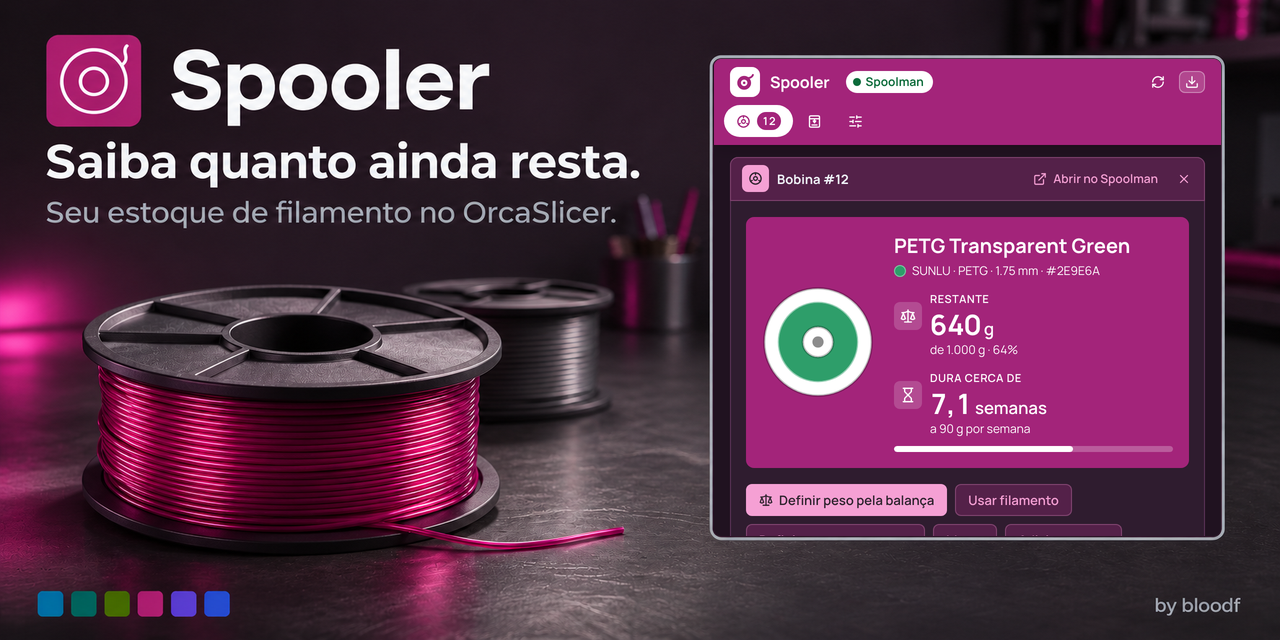
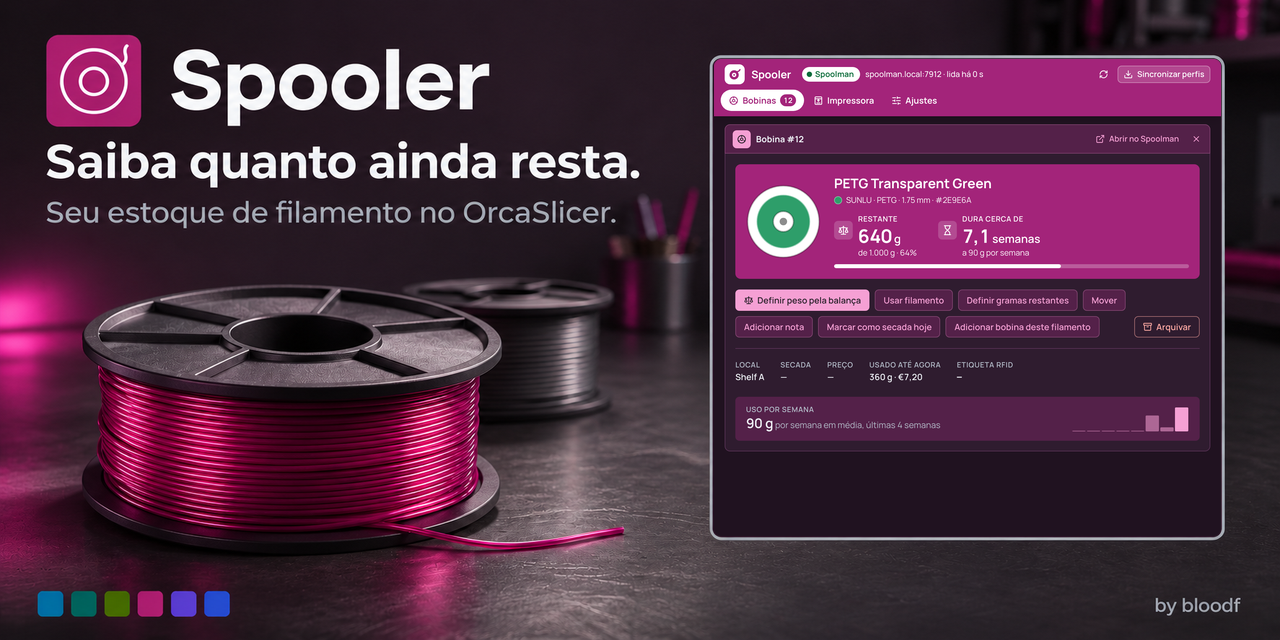
docs: apply brand review fixes to README, listing text and artwork
Canonical headings, tables, alt text and anchors in both READMEs; credits and independence note moved out of Contributing into NOTICE.md and a note under Install; listing description restructured. Social preview, main, square and hero images re-exported so the screenshot ends at a clean edge; unused spooler-store art removed.

Changed region(s): [[0.5312, 0.0938, 0.9688, 0.8438]]

diff --git a/scripts/store_images/render.py b/scripts/store_images/render.py
@@ -56,6 +56,10 @@ SCENES = {
     "left": {"view": "spools", "script": f"""
         document.querySelector('tr[data-spool="{SHOWN}"]').click();
         await until(function () {{ return document.querySelector('[data-detail="{SHOWN}"] .sd-history'); }});
+        // End the panel at the usage chart: the print history below it would be cut by the square's edge.
+        var heading = document.querySelector('[data-detail="{SHOWN}"] .sd-h');
+        if (heading) {{ heading.nextElementSibling.remove(); heading.remove(); }}
+        document.body.style.paddingBottom = '800px';   // room to scroll the panel to the top, so no list row shows above it
         top(document.querySelector('[data-detail="{SHOWN}"]'));
         document.activeElement.blur();"""},
     # README screenshots: the list with a spool's detail beside it, and the setup guide asking for the address
@@ -72,7 +76,14 @@ SCENES = {
     # "Turn stock into filament presets": the setup guide's step about the presets
     "presets": {"view": "settings", "wizard_step": 3, "script": ""},
     # "See what each slot holds": the printers and their toolheads
-    "slots": {"view": "printer", "display": {"head_rfid": False}, "script": ""},
+    "slots": {"view": "printer", "display": {"head_rfid": False}, "script": """
+        // Show the first printer's toolheads only: its note and the next printer would be cut by the square's edge.
+        var note = document.querySelector('.pp-note');
+        if (note) {
+          var panel = note.closest('.oui-panel');
+          while (panel.nextElementSibling) panel.nextElementSibling.remove();
+          note.remove();
+        }"""},
     # "Check filament before a print": the last slice's check
     "check": {"view": "printer", "plate": True, "script": """
         await until(function () { return document.querySelector('[data-test="plate"]'); });
@@ -98,14 +109,15 @@ def exports() -> list[dict]:
         rows.append({"source": f"spooler-workshop-{main}.png", "file": f"assets/orca-cloud/spooler-main-{lang}.png",
                      "size": (1600, 900), "scene": "left", "theme": "dark", "lang": lang, "use": "Orca Cloud main image"})
         rows.append({"source": f"spooler-workshop-main-square-{lang}.png", "file": f"assets/orca-cloud/spooler-main-square-{lang}.png",
-                     "size": (900, 900), "scene": "left", "theme": "dark", "lang": lang, "page_scale": 1.35,
+                     "size": (900, 900), "scene": "left", "theme": "dark", "lang": lang, "page_scale": 1.8,
                      "use": "Orca Cloud square image"})
         for name, scene in (("01-stock", "stock"), ("02-presets", "presets"), ("03-slots", "slots"), ("04-check", "check")):
             rows.append({"source": f"spooler-workshop-feature-{name}-{lang}.png",
                          "file": f"assets/orca-cloud/spooler-feature-{name}-{lang}.png",
                          "size": (1600, 900), "scene": scene, "theme": "dark", "lang": lang, "use": "Orca Cloud gallery image"})
         rows.append({"source": f"spooler-workshop-social-preview-{lang}.png", "file": f"assets/social/spooler-social-preview-{lang}.png",
-                     "size": (1280, 640), "scene": "left", "theme": "dark", "lang": lang, "use": "GitHub social preview"})
+                     "size": (1280, 640), "scene": "left", "theme": "dark", "lang": lang, "page_scale": 1.5,
+                     "use": "GitHub social preview"})
         for theme in ("dark", "light"):
             rows.append({"source": f"spooler-workshop-hero-{theme}-{lang}.png", "file": f"assets/readme/spooler-hero-{theme}-{lang}.png",
                          "size": (1600, 900), "scene": "left", "theme": theme, "lang": lang, "use": "README hero"})

diff --git a/README.pt-BR.md b/README.pt-BR.md
@@ -19,11 +19,9 @@
   <a href="#-instalação">Instalação</a> · <a href="#-recursos">Recursos</a> · <a href="#-como-usar">Como usar</a> · <a href="#-perguntas-frequentes">Perguntas</a> · <a href="README.md">English</a>
 </p>
 
-## ✨ O que ele faz
+## ✨ O que faz
 
 O Spooler lê suas bobinas do [Spoolman](https://github.com/Donkie/Spoolman) e as lista em uma aba dentro do OrcaSlicer, cada uma com material, cor, local e gramas restantes. Todo filamento com bobina em estoque vira um perfil de filamento do OrcaSlicer para cada uma das suas impressoras, já na cor certa. A aba Impressora mostra qual bobina está em cada cabeça, trilha ou slot do AMS, e depois de fatiar o Spooler compara o que a mesa precisa com o que resta.
-
-É um fork do [Spoolio](https://github.com/danm1989/spoolio-orcaslicer), de Dan J Moore, que faz a configuração por você: informe o endereço do Spoolman uma vez.
 
 <p align="center">
   <picture>
@@ -42,7 +40,7 @@ Por arquivo:
 2. Coloque-o em uma pasta própria chamada `spooler` dentro do diretório de plugins do OrcaSlicer, um arquivo do Spooler por pasta: `%APPDATA%\OrcaSlicer\orca_plugins\` no Windows, `~/Library/Application Support/OrcaSlicer/orca_plugins/` no macOS, `~/.config/OrcaSlicer/orca_plugins/` no Linux.
 3. Reinicie o OrcaSlicer e marque **Activate** no Spooler. Uma aba **Spooler** aparece na barra superior.
 
-| Você precisa de | Detalhes |
+| Requisito | Detalhe |
 |---|---|
 | OrcaSlicer | 2.5.0 ou mais novo, pelas APIs de perfis para plugins |
 | Uma origem de bobinas | Um servidor [Spoolman](https://github.com/Donkie/Spoolman) acessível, ou uma conta Bambu Cloud (só leitura, experimental) |
@@ -51,26 +49,28 @@ Por arquivo:
 
 [docs/install.md](docs/install.md) mostra cada passo com uma figura (em inglês).
 
+O Spooler é um fork do [Spoolio](https://github.com/danm1989/spoolio-orcaslicer), de Dan J Moore, que acrescenta um guia de configuração. É um projeto independente, sem vínculo com Spoolman, OrcaSlicer, Snapmaker, Sovol, Anycubic ou Bambu Lab e sem o endosso deles.
+
 ## 🧰 Recursos
 
 <table>
   <tr>
     <td width="50%" valign="top">
-      <img src="assets/orca-cloud/spooler-feature-01-stock-pt-BR.png" alt="Arte do Spooler com a lista de bobinas: material, selos de estado e gramas restantes de cada bobina" width="100%">
+      <img src="assets/orca-cloud/spooler-feature-01-stock-pt-BR.png" alt="A lista de bobinas: material, selos de estado e gramas restantes de cada bobina" width="100%">
       <p><b>Todas as bobinas em uma lista</b><br>Material, cor, local e gramas restantes, lidos do Spoolman e atualizados em um ou dois segundos.</p>
     </td>
     <td width="50%" valign="top">
-      <img src="assets/orca-cloud/spooler-feature-02-presets-pt-BR.png" alt="Arte do Spooler com o passo do guia de configuração sobre os perfis: um por filamento e impressora, em Perfis do usuário" width="100%">
+      <img src="assets/orca-cloud/spooler-feature-02-presets-pt-BR.png" alt="O passo do guia de configuração sobre os perfis: um por filamento e impressora, em Perfis do usuário" width="100%">
       <p><b>O estoque vira perfis de filamento</b><br>Um perfil por filamento e impressora em Perfis do usuário, na cor do filamento e com as temperaturas dele.</p>
     </td>
   </tr>
   <tr>
     <td width="50%" valign="top">
-      <img src="assets/orca-cloud/spooler-feature-03-slots-pt-BR.png" alt="Arte do Spooler com a aba Impressora: as quatro cabeças de uma Snapmaker U1, cada uma com sua bobina e os gramas restantes" width="100%">
+      <img src="assets/orca-cloud/spooler-feature-03-slots-pt-BR.png" alt="A aba Impressora: as quatro cabeças de uma Snapmaker U1, cada uma com sua bobina e os gramas restantes" width="100%">
       <p><b>O que há em cada slot</b><br>Cabeças, trilhas e slots do AMS relacionados às suas bobinas, com o perfil que cada um recebe.</p>
     </td>
     <td width="50%" valign="top">
-      <img src="assets/orca-cloud/spooler-feature-04-check-pt-BR.png" alt="Arte do Spooler com o painel Esta placa: dois slots com filamento suficiente e um com 32 g a menos" width="100%">
+      <img src="assets/orca-cloud/spooler-feature-04-check-pt-BR.png" alt="O painel Esta placa: dois slots com filamento suficiente e um com 32 g a menos" width="100%">
       <p><b>Uma conferência a cada fatiamento</b><br>O que a mesa precisa contra o que resta, com um aviso que fica na tela quando uma bobina não dá conta.</p>
     </td>
   </tr>
@@ -98,7 +98,7 @@ O [guia do usuário](docs/guide.md) (em inglês) tem todos os ajustes, as chaves
 ## 🛠 Como usar
 
 1. Abra a aba **Spooler**. Na primeira vez, o guia de configuração abre sobre os Ajustes.
-2. Em **Escolha a origem**, informe o endereço do Spoolman, por exemplo `http://raspberrypi.local:7912`, e clique em **Testar**. **Próximo** é liberado quando a conexão funciona.
+2. Em **Escolha a origem**, informe o endereço do Spoolman, por exemplo `http://raspberrypi.local:7912`, e clique em **Testar**. **Próximo** fica disponível quando a conexão funciona.
 3. Aceite os pedidos de permissão. O OrcaSlicer pergunta na primeira vez que o Spooler acessa o Spoolman ou uma impressora e na primeira vez que grava perfis. Conceder acesso total uma vez evita as repetições.
 4. Clique em **Salvar e concluir**. A aba **Bobinas** lista o seu estoque.
 5. No seletor de filamento da barra lateral, escolha um filamento em **Perfis do usuário**. O slot fica na cor do filamento.
@@ -137,8 +137,6 @@ O Spooler não tem telemetria nem conta. Ele fala com os servidores que você in
 | Seu computador | Os perfis do OrcaSlicer e o uso de filamento da mesa fatiada | Os perfis dele na pasta de usuário do OrcaSlicer, e ajustes, log, histórico e exportações CSV em `<pasta de dados do OrcaSlicer>/spooler/` |
 
 Os códigos de acesso das impressoras ficam nessa pasta e só vão para a própria impressora. As conexões com impressoras Bambu e Anycubic não verificam o certificado da impressora, porque elas usam certificados autoassinados, então confiam na sua rede local. O carrinho de recompra abre uma busca do filamento no seu navegador, só quando você clica. O Spooler não baixa código nem inicia programas. [SECURITY.md](SECURITY.md) (em inglês) tem a lista completa e como relatar um problema.
-
-<a id="-perguntas-frequentes"></a>
 
 ## ❓ Perguntas frequentes
 
@@ -194,24 +192,22 @@ Cada plugin tem a sua aba. O U1 Control controla a Snapmaker U1 e vincula bobina
 
 Inglês e português do Brasil. A página segue o idioma do OrcaSlicer, e Ajustes > **Idioma** muda isso.
 
-## 🧩 Mais plugins by bloodf
+## 🧩 Mais plugins do bloodf
 
 | | Plugin | O que faz | |
-|---|---|---|---|
-| <img src="https://raw.githubusercontent.com/bloodf/orca_organizer/main/assets/orca-cloud/orca_organizer-tile.png" width="40" alt="Ícone do Organizer"> | 🧩 [Organizer](https://github.com/bloodf/orca_organizer) | Organize as peças pelo contorno real e encha a mesa com mais cópias. | [Instalar](https://cloud.orcaslicer.com/p/5bf381fd42d4) |
-| <img src="https://raw.githubusercontent.com/bloodf/embedder/main/assets/orca-cloud/embedder-tile.png" width="40" alt="Ícone do Embedder"> | 🧲 [Embedder](https://github.com/bloodf/embedder) | Bolsos para ímãs e NFC, com a pausa na camada certa. | [Instalar](https://cloud.orcaslicer.com/p/58222d4f9e52) |
-| <img src="https://raw.githubusercontent.com/bloodf/orca_print_calculator/main/assets/orca-cloud/orca_print_calculator-tile.png" width="40" alt="Ícone do Print Calculator"> | 💰 [Print Calculator](https://github.com/bloodf/orca_print_calculator) | Preço de cada mesa: filamento, energia, mão de obra, taxas e margem. | [Instalar](https://cloud.orcaslicer.com/p/521c07cf6de2) |
-| <img src="assets/orca-cloud/spooler-tile.png" width="40" alt="Ícone do Spooler"> | 🧵 **Spooler** · você está aqui | Seu estoque do Spoolman dentro do OrcaSlicer, com o que resta em cada bobina. | |
-| <img src="https://raw.githubusercontent.com/bloodf/kobracontrol/main/assets/orca-cloud/kobracontrol-tile.png" width="40" alt="Ícone do Kobra Control"> | 🟣 [Kobra Control](https://github.com/bloodf/kobracontrol) | Controle a Anycubic Kobra X pelo OrcaSlicer na sua rede. | [Instalar](https://cloud.orcaslicer.com/p/59c786285255) |
-| <img src="https://raw.githubusercontent.com/bloodf/u1control/main/assets/orca-cloud/u1control-tile.png" width="40" alt="Ícone do U1 Control"> | 🔵 [U1 Control](https://github.com/bloodf/u1control) | Controle a Snapmaker U1 pelo OrcaSlicer: cabeças, câmera, arquivos. | [Instalar](https://cloud.orcaslicer.com/p/55b8c347d443) |
+|:-:|---|---|---|
+| <img src="https://raw.githubusercontent.com/bloodf/orca_organizer/main/assets/orca-cloud/orca_organizer-tile.png" alt="Ícone do Organizer" width="40"> | 🧩 [Organizer](https://github.com/bloodf/orca_organizer) | Organize as peças pelo contorno real e encha a mesa com mais cópias. | [Instalar](https://cloud.orcaslicer.com/p/5bf381fd42d4) |
+| <img src="https://raw.githubusercontent.com/bloodf/embedder/main/assets/orca-cloud/embedder-tile.png" alt="Ícone do Embedder" width="40"> | 🧲 [Embedder](https://github.com/bloodf/embedder) | Bolsos para ímãs e NFC, com a pausa na camada certa. | [Instalar](https://cloud.orcaslicer.com/p/58222d4f9e52) |
+| <img src="https://raw.githubusercontent.com/bloodf/orca_print_calculator/main/assets/orca-cloud/orca_print_calculator-tile.png" alt="Ícone do Print Calculator" width="40"> | 💰 [Print Calculator](https://github.com/bloodf/orca_print_calculator) | Preço de cada mesa: filamento, energia, mão de obra, taxas e margem. | [Instalar](https://cloud.orcaslicer.com/p/521c07cf6de2) |
+| <img src="assets/orca-cloud/spooler-tile.png" alt="Ícone do Spooler" width="40"> | 🧵 **Spooler** · você está aqui | Seu estoque do Spoolman dentro do OrcaSlicer, com o que resta em cada bobina. | |
+| <img src="https://raw.githubusercontent.com/bloodf/kobracontrol/main/assets/orca-cloud/kobracontrol-tile.png" alt="Ícone do Kobra Control" width="40"> | 🟣 [Kobra Control](https://github.com/bloodf/kobracontrol) | Controle a Anycubic Kobra X pelo OrcaSlicer na sua rede. | [Instalar](https://cloud.orcaslicer.com/p/59c786285255) |
+| <img src="https://raw.githubusercontent.com/bloodf/u1control/main/assets/orca-cloud/u1control-tile.png" alt="Ícone do U1 Control" width="40"> | 🔵 [U1 Control](https://github.com/bloodf/u1control) | Controle a Snapmaker U1 pelo OrcaSlicer: cabeças, câmera, arquivos. | [Instalar](https://cloud.orcaslicer.com/p/55b8c347d443) |
 
 Cada plugin funciona sozinho; instalados juntos, compartilham dados onde isso ajuda.
 
-## 🤝 Como contribuir
+## 🤝 Contribuir
 
-Relatos de bugs, dados de impressoras e pull requests são bem-vindos: [relate um bug](https://github.com/bloodf/spooler/issues/new?template=bug_report.yml) ou [peça um recurso](https://github.com/bloodf/spooler/issues/new?template=feature_request.yml). [CONTRIBUTING.md](CONTRIBUTING.md) cobre a preparação, os testes, o build e como experimentar no OrcaSlicer. Em [docs/](docs/), [how-it-works.md](docs/how-it-works.md) percorre o código e [release.md](docs/release.md) cobre as versões e a página no Orca Cloud. Esses documentos estão em inglês. Todos que participam seguem o [código de conduta](CODE_OF_CONDUCT.md).
-
-O Spooler é construído sobre o [Spoolio](https://github.com/danm1989/spoolio-orcaslicer), de Dan J Moore, e agradece ao [Spoolman](https://github.com/Donkie/Spoolman), ao [OrcaSlicer](https://github.com/OrcaSlicer/OrcaSlicer) e ao [q2-offload](https://github.com/cedbossneo/q2-offload). É um projeto independente, sem vínculo com Spoolman, OrcaSlicer, Snapmaker, Sovol, Anycubic ou Bambu Lab e sem o endosso deles.
+Relatos de bugs, dados de impressoras e pull requests são bem-vindos: [relate um bug](https://github.com/bloodf/spooler/issues/new?template=bug_report.yml) ou [peça um recurso](https://github.com/bloodf/spooler/issues/new?template=feature_request.yml). [CONTRIBUTING.md](CONTRIBUTING.md) cobre a preparação, os testes e o build, [docs/](docs/) tem um [roteiro do código](docs/how-it-works.md) e as [notas de versão para mantenedores](docs/release.md), e [NOTICE.md](NOTICE.md) lista os créditos. Esses documentos estão em inglês. Todos que participam seguem o [código de conduta](CODE_OF_CONDUCT.md).
 
 ## 📄 Licença
 

diff --git a/README.md b/README.md
@@ -23,8 +23,6 @@
 
 Spooler reads your spools from [Spoolman](https://github.com/Donkie/Spoolman) and lists them in a tab inside OrcaSlicer, each with its material, colour, location and grams left. Every filament with a spool in stock becomes an OrcaSlicer filament preset for each of your printers, already in its colour. The Printer tab shows which spool sits in each toolhead, lane or AMS slot, and after a slice Spooler compares what the plate needs with what is left.
 
-It is a fork of [Spoolio](https://github.com/danm1989/spoolio-orcaslicer) by Dan J Moore that does the setup for you: enter your Spoolman address once.
-
 <p align="center">
   <picture>
     <source media="(prefers-color-scheme: dark)" srcset="assets/readme/spooler-screen-spools-dark-en.png">
@@ -42,7 +40,7 @@ From a file:
 2. Put it in its own folder called `spooler` inside OrcaSlicer's plugin directory, one Spooler file per folder: `%APPDATA%\OrcaSlicer\orca_plugins\` on Windows, `~/Library/Application Support/OrcaSlicer/orca_plugins/` on macOS, `~/.config/OrcaSlicer/orca_plugins/` on Linux.
 3. Restart OrcaSlicer and tick **Activate** for Spooler. A **Spooler** tab appears in the top bar.
 
-| You need | Details |
+| Requirement | Detail |
 |---|---|
 | OrcaSlicer | 2.5.0 or later, for the plugin preset APIs |
 | A spool source | A [Spoolman](https://github.com/Donkie/Spoolman) server you can reach, or a Bambu Cloud account (read-only, experimental) |
@@ -51,26 +49,28 @@ From a file:
 
 [docs/install.md](docs/install.md) shows each step with a picture.
 
+Spooler is a fork of [Spoolio](https://github.com/danm1989/spoolio-orcaslicer) by Dan J Moore that adds a setup guide. It is an independent project, not affiliated with or endorsed by Spoolman, OrcaSlicer, Snapmaker, Sovol, Anycubic or Bambu Lab.
+
 ## 🧰 Features
 
 <table>
   <tr>
     <td width="50%" valign="top">
-      <img src="assets/orca-cloud/spooler-feature-01-stock-en.png" alt="Spooler artwork with the spool list: material, state chips and grams left for each spool" width="100%">
+      <img src="assets/orca-cloud/spooler-feature-01-stock-en.png" alt="The spool list: material, state chips and grams left for each spool" width="100%">
       <p><b>Every spool in one list</b><br>Material, colour, location and grams left, read from Spoolman and updated within a second or two.</p>
     </td>
     <td width="50%" valign="top">
-      <img src="assets/orca-cloud/spooler-feature-02-presets-en.png" alt="Spooler artwork with the setup guide's step about presets: one per filament and printer, under User presets" width="100%">
+      <img src="assets/orca-cloud/spooler-feature-02-presets-en.png" alt="The setup guide's step about presets: one per filament and printer, under User presets" width="100%">
       <p><b>Stock becomes filament presets</b><br>One preset per filament and printer under User presets, in the filament's colour and with its temperatures.</p>
     </td>
   </tr>
   <tr>
     <td width="50%" valign="top">
-      <img src="assets/orca-cloud/spooler-feature-03-slots-en.png" alt="Spooler artwork with the Printer tab: the four toolheads of a Snapmaker U1, each with its spool and grams left" width="100%">
+      <img src="assets/orca-cloud/spooler-feature-03-slots-en.png" alt="The Printer tab: the four toolheads of a Snapmaker U1, each with its spool and grams left" width="100%">
       <p><b>What each slot holds</b><br>Toolheads, lanes and AMS slots matched to your spools, with the preset each one gets.</p>
     </td>
     <td width="50%" valign="top">
-      <img src="assets/orca-cloud/spooler-feature-04-check-en.png" alt="Spooler artwork with the This plate panel: two slots with enough filament and one that is 32 g short" width="100%">
+      <img src="assets/orca-cloud/spooler-feature-04-check-en.png" alt="The This plate panel: two slots with enough filament and one that is 32 g short" width="100%">
       <p><b>A check after every slice</b><br>What the plate needs against what is left, with a notice that stays when a spool runs short.</p>
     </td>
   </tr>
@@ -98,7 +98,7 @@ The [user guide](docs/guide.md) has every setting, the supported `orca_settings`
 ## 🛠 How to use
 
 1. Open the **Spooler** tab. On first run the setup guide opens over Settings.
-2. Under **Choose your source**, enter your Spoolman address, for example `http://raspberrypi.local:7912`, and click **Test**. **Next** unlocks once it connects.
+2. Under **Choose your source**, enter your Spoolman address, for example `http://raspberrypi.local:7912`, and click **Test**. **Next** becomes available once it connects.
 3. Allow the permission prompts. OrcaSlicer asks the first time Spooler reaches Spoolman or a printer and the first time it writes presets. Granting full access once avoids the repeats.
 4. Click **Save & finish**. The **Spools** tab lists your stock.
 5. In the sidebar's filament dropdown, pick a filament under **User presets**. The slot takes the filament's colour.
@@ -195,21 +195,19 @@ English and Brazilian Portuguese. The page follows OrcaSlicer's language, and Se
 ## 🧩 More plugins by bloodf
 
 | | Plugin | What it does | |
-|---|---|---|---|
-| <img src="https://raw.githubusercontent.com/bloodf/orca_organizer/main/assets/orca-cloud/orca_organizer-tile.png" width="40" alt="Organizer tile"> | 🧩 [Organizer](https://github.com/bloodf/orca_organizer) | Arrange parts by their real outline and fill a plate with more copies. | [Install](https://cloud.orcaslicer.com/p/5bf381fd42d4) |
-| <img src="https://raw.githubusercontent.com/bloodf/embedder/main/assets/orca-cloud/embedder-tile.png" width="40" alt="Embedder tile"> | 🧲 [Embedder](https://github.com/bloodf/embedder) | Magnet and NFC pockets, with the pause at the right layer. | [Install](https://cloud.orcaslicer.com/p/58222d4f9e52) |
-| <img src="https://raw.githubusercontent.com/bloodf/orca_print_calculator/main/assets/orca-cloud/orca_print_calculator-tile.png" width="40" alt="Print Calculator tile"> | 💰 [Print Calculator](https://github.com/bloodf/orca_print_calculator) | Price every plate: filament, energy, labour, fees and margin. | [Install](https://cloud.orcaslicer.com/p/521c07cf6de2) |
-| <img src="assets/orca-cloud/spooler-tile.png" width="40" alt="Spooler tile"> | 🧵 **Spooler** · you are here | Your Spoolman stock inside OrcaSlicer, with what is left on each spool. | |
-| <img src="https://raw.githubusercontent.com/bloodf/kobracontrol/main/assets/orca-cloud/kobracontrol-tile.png" width="40" alt="Kobra Control tile"> | 🟣 [Kobra Control](https://github.com/bloodf/kobracontrol) | Run the Anycubic Kobra X from OrcaSlicer over your LAN. | [Install](https://cloud.orcaslicer.com/p/59c786285255) |
-| <img src="https://raw.githubusercontent.com/bloodf/u1control/main/assets/orca-cloud/u1control-tile.png" width="40" alt="U1 Control tile"> | 🔵 [U1 Control](https://github.com/bloodf/u1control) | Run the Snapmaker U1 from OrcaSlicer: toolheads, camera, files. | [Install](https://cloud.orcaslicer.com/p/55b8c347d443) |
+|:-:|---|---|---|
+| <img src="https://raw.githubusercontent.com/bloodf/orca_organizer/main/assets/orca-cloud/orca_organizer-tile.png" alt="Organizer icon" width="40"> | 🧩 [Organizer](https://github.com/bloodf/orca_organizer) | Arrange parts by their real outline and fill a plate with more copies. | [Install](https://cloud.orcaslicer.com/p/5bf381fd42d4) |
+| <img src="https://raw.githubusercontent.com/bloodf/embedder/main/assets/orca-cloud/embedder-tile.png" alt="Embedder icon" width="40"> | 🧲 [Embedder](https://github.com/bloodf/embedder) | Magnet and NFC pockets, with the pause at the right layer. | [Install](https://cloud.orcaslicer.com/p/58222d4f9e52) |
+| <img src="https://raw.githubusercontent.com/bloodf/orca_print_calculator/main/assets/orca-cloud/orca_print_calculator-tile.png" alt="Print Calculator icon" width="40"> | 💰 [Print Calculator](https://github.com/bloodf/orca_print_calculator) | Price every plate: filament, energy, labour, fees and margin. | [Install](https://cloud.orcaslicer.com/p/521c07cf6de2) |
+| <img src="assets/orca-cloud/spooler-tile.png" alt="Spooler icon" width="40"> | 🧵 **Spooler** · you are here | Your Spoolman stock inside OrcaSlicer, with what is left on each spool. | |
+| <img src="https://raw.githubusercontent.com/bloodf/kobracontrol/main/assets/orca-cloud/kobracontrol-tile.png" alt="Kobra Control icon" width="40"> | 🟣 [Kobra Control](https://github.com/bloodf/kobracontrol) | Run the Anycubic Kobra X from OrcaSlicer over your LAN. | [Install](https://cloud.orcaslicer.com/p/59c786285255) |
+| <img src="https://raw.githubusercontent.com/bloodf/u1control/main/assets/orca-cloud/u1control-tile.png" alt="U1 Control icon" width="40"> | 🔵 [U1 Control](https://github.com/bloodf/u1control) | Run the Snapmaker U1 from OrcaSlicer: toolheads, camera, files. | [Install](https://cloud.orcaslicer.com/p/55b8c347d443) |
 
 Each plugin works on its own; installed together they share data where it helps.
 
 ## 🤝 Contributing
 
-Bug reports, printer data and pull requests are welcome: [report a bug](https://github.com/bloodf/spooler/issues/new?template=bug_report.yml) or [request a feature](https://github.com/bloodf/spooler/issues/new?template=feature_request.yml). [CONTRIBUTING.md](CONTRIBUTING.md) covers the setup, the tests, the build and how to try it in OrcaSlicer. In [docs/](docs/), [how-it-works.md](docs/how-it-works.md) is a tour of the code and [release.md](docs/release.md) covers releases and the Orca Cloud listing. Everyone taking part follows the [code of conduct](CODE_OF_CONDUCT.md).
-
-Spooler is built on [Spoolio](https://github.com/danm1989/spoolio-orcaslicer) by Dan J Moore, and owes thanks to [Spoolman](https://github.com/Donkie/Spoolman), [OrcaSlicer](https://github.com/OrcaSlicer/OrcaSlicer) and [q2-offload](https://github.com/cedbossneo/q2-offload). It is an independent project, not affiliated with or endorsed by Spoolman, OrcaSlicer, Snapmaker, Sovol, Anycubic or Bambu Lab.
+Bug reports, printer data and pull requests are welcome: [report a bug](https://github.com/bloodf/spooler/issues/new?template=bug_report.yml) or [request a feature](https://github.com/bloodf/spooler/issues/new?template=feature_request.yml). [CONTRIBUTING.md](CONTRIBUTING.md) covers the setup, the tests and the build, [docs/](docs/) has a [tour of the code](docs/how-it-works.md) and the [release notes for maintainers](docs/release.md), and [NOTICE.md](NOTICE.md) lists the credits. Everyone taking part follows the [code of conduct](CODE_OF_CONDUCT.md).
 
 ## 📄 License
 

diff --git a/docs/orca-cloud-description.md b/docs/orca-cloud-description.md
@@ -1,6 +1,8 @@
-<!-- Orca Cloud listing text, one block per language. Paste each block into the matching description field. Each block stays under 4000 characters. The four images resolve once this branch is merged to main. -->
+# Orca Cloud description
 
-# English
+Listing text for Spooler on Orca Cloud, one block per language. Paste each block into the matching description field. Each block stays under 4000 characters, and the four images resolve once this branch is merged to main.
+
+## English
 
 ```markdown
 Your Spoolman stock inside OrcaSlicer, with what is left on each spool.
@@ -53,7 +55,7 @@ Each plugin works on its own; installed together they share data where it helps.
 https://github.com/bloodf/spooler (MIT). Based on Spoolio by Dan J Moore. Not affiliated with Spoolman, OrcaSlicer, Snapmaker, Sovol, Anycubic or Bambu Lab.
 ```
 
-# Português (Brasil)
+## Português (Brasil)
 
 ```markdown
 Seu estoque do Spoolman dentro do OrcaSlicer, com o que resta em cada bobina.
@@ -64,7 +66,7 @@ Seu estoque do Spoolman dentro do OrcaSlicer, com o que resta em cada bobina.
 - Um servidor Spoolman que você consiga acessar (ou uma conta Bambu Cloud, somente leitura)
 - Opcional: uma impressora Klipper/Moonraker, Snapmaker U1, Anycubic ou Bambu Lab na sua rede
 
-## O que ele faz
+## O que faz
 
 Lista cada bobina com material, cor, local e gramas restantes.
 Transforma cada filamento em estoque em um perfil de filamento do OrcaSlicer para cada uma das suas impressoras, na cor dele.
@@ -91,7 +93,7 @@ Sem telemetria e sem conta. O Spooler fala só com os servidores que você indic
 
 Inglês e português do Brasil, seguindo o idioma do OrcaSlicer.
 
-## Mais plugins by bloodf
+## Mais plugins do bloodf
 
 - [Organizer](https://cloud.orcaslicer.com/p/5bf381fd42d4): organize as peças pelo contorno real e encha a mesa com mais cópias.
 - [Embedder](https://cloud.orcaslicer.com/p/58222d4f9e52): bolsos para ímãs e NFC, com a pausa na camada certa.

diff --git a/NOTICE.md b/NOTICE.md
@@ -1,0 +1,7 @@
+# Notice
+
+Spooler is built on [Spoolio](https://github.com/danm1989/spoolio-orcaslicer) by Dan J Moore.
+
+It owes thanks to [Spoolman](https://github.com/Donkie/Spoolman), [OrcaSlicer](https://github.com/OrcaSlicer/OrcaSlicer) and [q2-offload](https://github.com/cedbossneo/q2-offload).
+
+Spooler is an independent project, not affiliated with or endorsed by Spoolman, OrcaSlicer, Snapmaker, Sovol, Anycubic or Bambu Lab.
